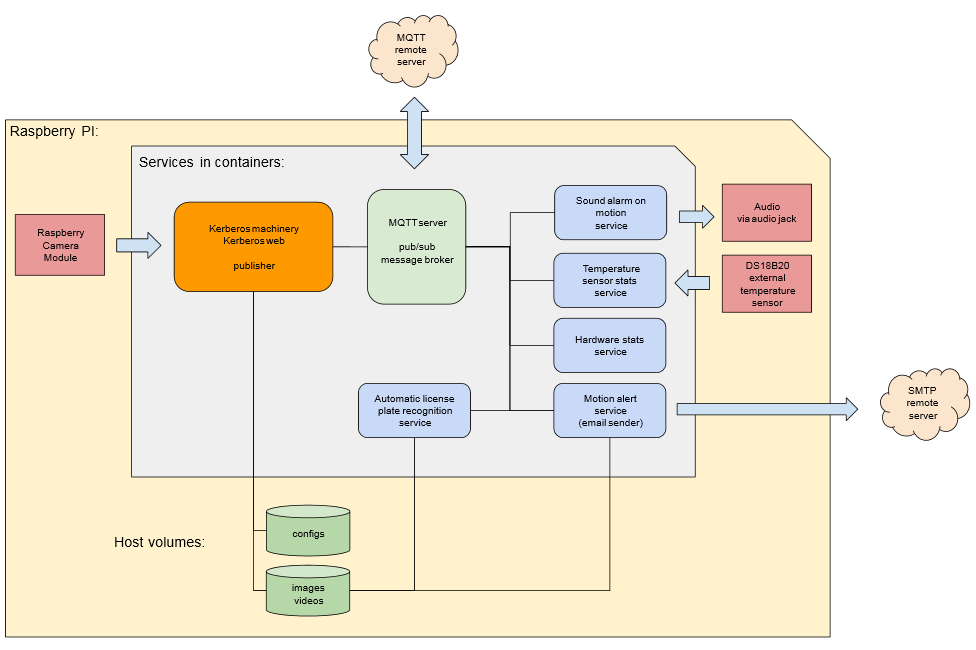
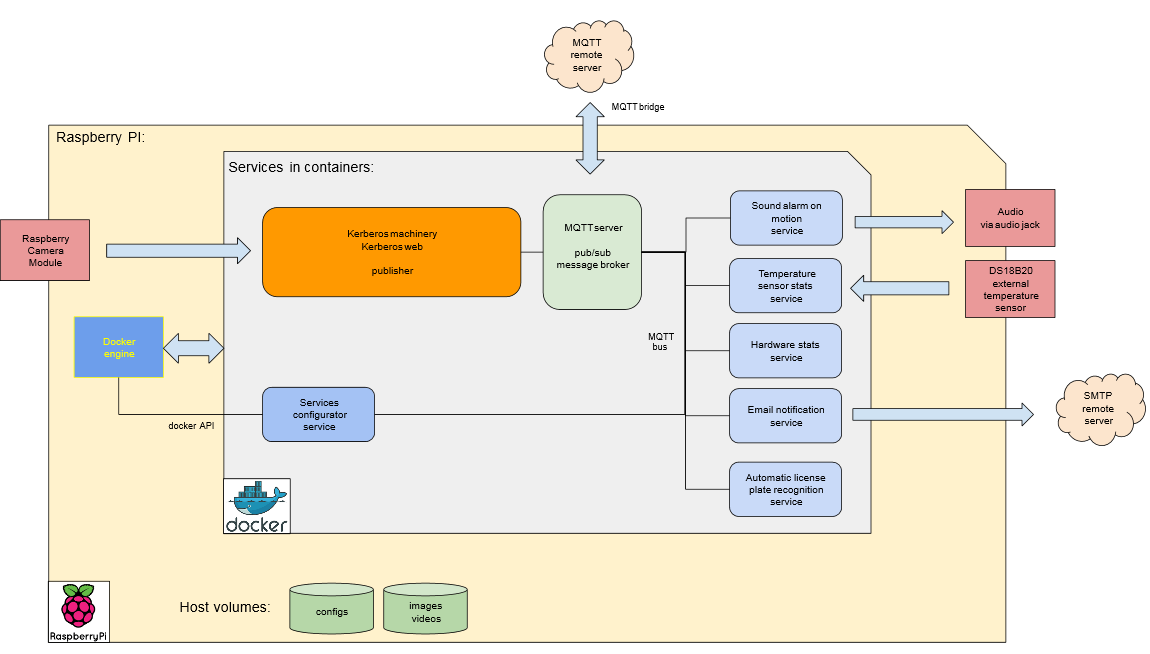
Code in volumes for faster development Configs refactoring README updates

diff --git a/services/email-notification/code/email-queue-processor.php b/services/email-notification/code/email-queue-processor.php
@@ -114,14 +114,14 @@ if (!empty($fileListToAttach)) {
         //$htmlBody .= "<br><br>Last health report: <br><pre>" . var_export(json_decode($lastHealthReportData, true), true) . "</pre>";
         $lastHealthReportData = json_decode($lastHealthReportData, true);
         $reportPayload = $lastHealthReportData['payload'];
+        $reportPayload = $lastHealthReportData['payload'];
         $uptimeSeconds = $reportPayload['uptime_seconds'];
         $htmlBody .= "
         <br><br>Last health report (reported " . date("Y-m-d H:i:s", $reportPayload['timestamp']) . "): <br>
         <ul>
             <li>System name: <b>" . $reportPayload['system_name'] . "</b></li>
-            <li>Uptime: <b>" . floor($uptimeSeconds / 3600) . gmdate(":i", $uptimeSeconds % 3600) . " (H:m)</b></li>
-            <li>CPU temp.: <b>" . $reportPayload['cpu_temp'] . " 'C</b></li>
-            <li>CPU volt.: <b>" . $reportPayload['cpu_voltage'] . " V</b></li>
+            <li>Uptime: <b>" . floor($uptimeSeconds / 3600) . "h " . gmdate(":i", $uptimeSeconds % 3600) . "m</b></li>
+            <li>CPU: <b>" . $reportPayload['cpu_temp'] . "'C</b> , <b>" . $reportPayload['cpu_voltage'] . "V</b></li>
             <li>Disk space total: <b>" . $reportPayload['disk_space_total_kb'] . " kb</b></li>
             <li>Disk space available: <b>" . $reportPayload['disk_space_available_kb'] . " kb 
                 (" . number_format(100 * ($reportPayload['disk_space_available_kb'] / $reportPayload['disk_space_total_kb']), 2) . "%)</b>

diff --git a/services/configurator/code/configurator.php b/services/configurator/code/configurator.php
@@ -45,9 +45,17 @@ class Configurator
         //split to lines, normalize, strip empty space, validate
         $configAsTextLines = explode("\n", $configAsText);
         array_walk($configAsTextLines, function (&$line) {
-            //@TODO validate the line syntax for values with spaces
             $line = trim($line);
+            if (
+                (!empty($line))
+                and preg_match("/^#.*$/i", $line) //comment
+                and preg_match("/^[a-z0-9_]+[=][a-z0-9@_-]+[ ]*(#.*)?$/i", $line) //key=val without quotes and possible comment at the end
+                and preg_match('/^[a-z0-9_]+[=]["][a-z0-9@_ -]+["][ ]*(#.*)?$/i', $line) //key=val without quotes and possible comment at the end
+            ) {
+                throw new \InvalidArgumentException("Invalid format for line $line , must be KEY=VAL or KEY=\"VAL\"" or comment);
+            }
         });
+        echo "OK"; exit;
         $newConfig = join("\n", $configAsTextLines);
         if (!file_put_contents("/service-configs/services.conf", $newConfig)) {
             throw new Exception("Cannot save config file");

diff --git a/README.md b/README.md
@@ -35,6 +35,7 @@ Enjoy! :-)
 * Enable the camera module support (raspi-config -> interfacing -> camera)
 * Set video memory do 256MB (raspi-config -> advanced -> memory split)
 * Clone this repo (git clone REPO_URL), go to the newly created repo directory
+* Edit the file **configs/environment.conf** and update it with your configuration (raspberry pi hardware version)
 * Rename the file **configs/services.conf.template** to **configs/services.conf** then edit it and update with your configuration (like SMTP host/password etc.)
 * Run "**bash ./install.sh**" 
 * Go to the kerberos installation page at http://_YOUR_RASPBERRY_PI_ADDRESS_
